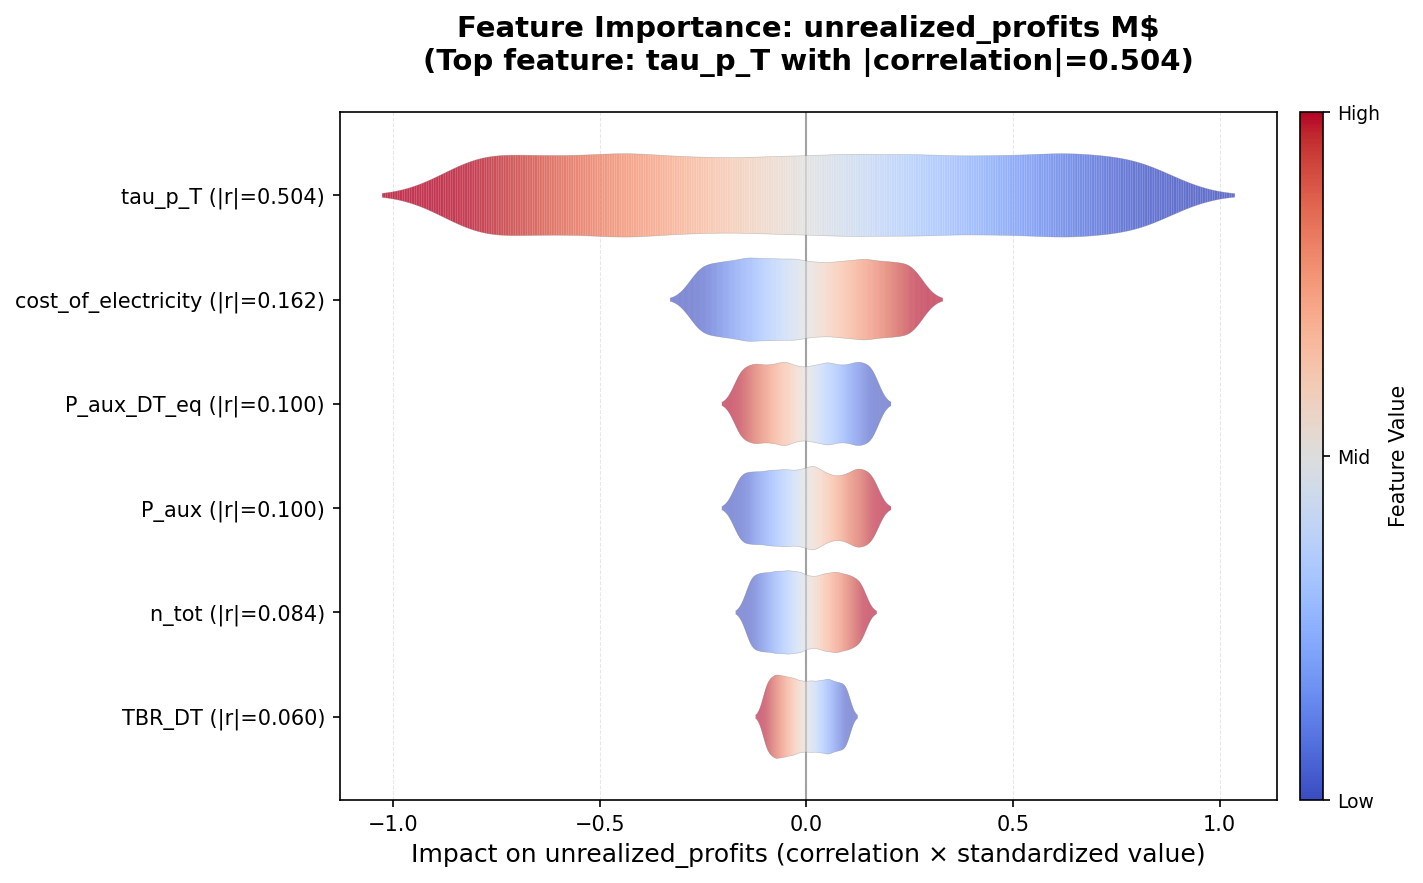
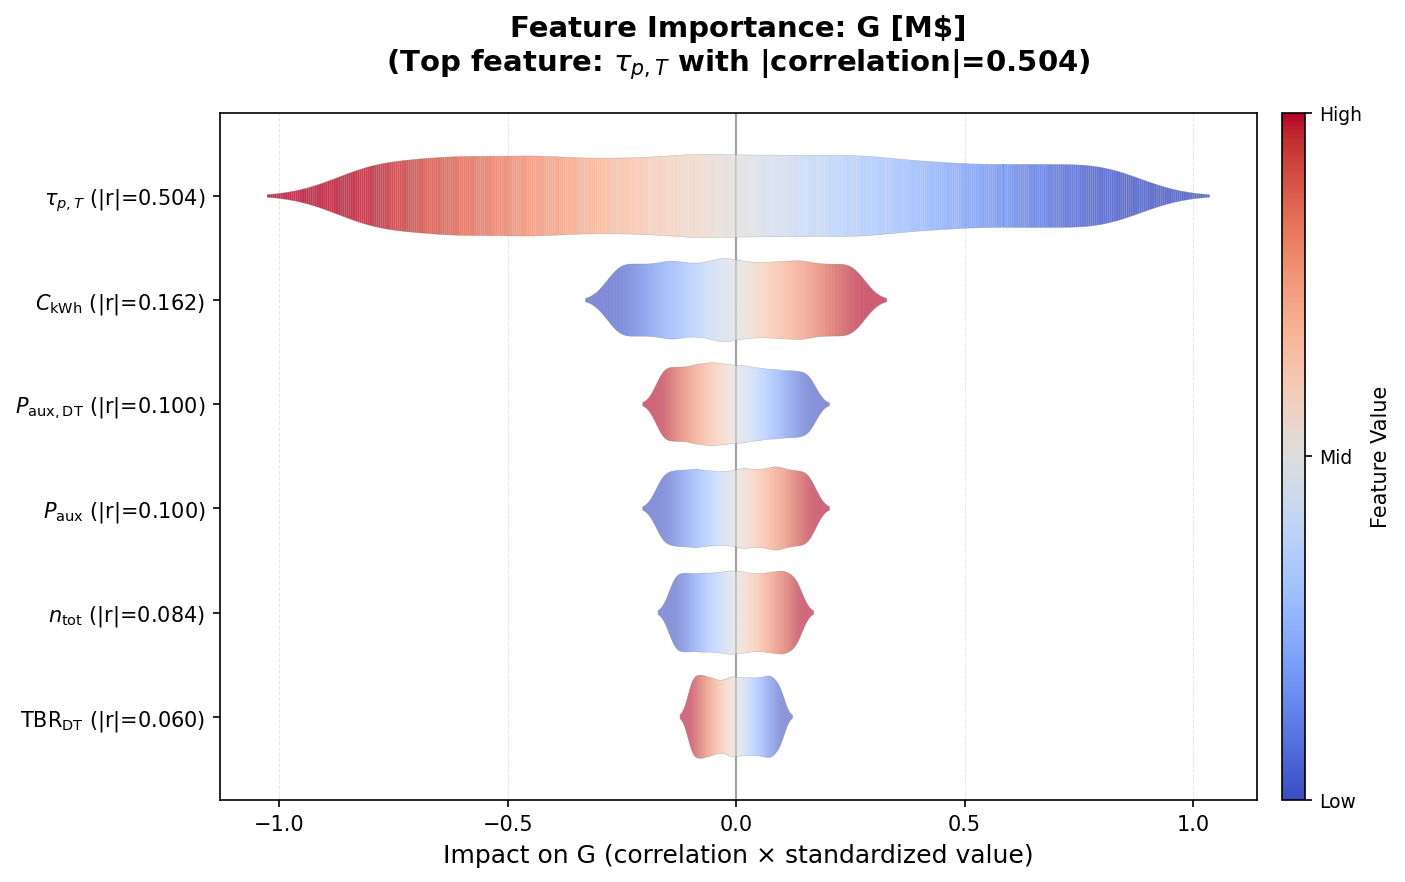
plotting updated

diff --git a/ddstartup/postprocessing/plot_kde_functions.py b/ddstartup/postprocessing/plot_kde_functions.py
@@ -71,11 +71,29 @@ def kde_quartile_plot(df_filtered, target, input_parameters, target_unit, output
         print(f"   No input parameters found for target '{target}'. Skipping KDE plot.")
         return
     
-    # Set up subplot grid
+    # Set up subplot grid with extra row for title and extra row for legend
     ncols = min(3, n_inputs)
     nrows = int(np.ceil(n_inputs / ncols))
-    fig, axes = plt.subplots(nrows=nrows, ncols=ncols, figsize=(4*ncols, 3*nrows), sharey=False)
-    axes = axes.flatten() if n_inputs > 1 else [axes]
+    
+    # Add 2 extra rows: one for title at top, one for legend at bottom
+    # Use gridspec to control row heights
+    from matplotlib import gridspec
+    
+    # Define height ratios: first row (title) = 0.07 (minimal for fontsize 14), 
+    # data rows = 1 each, last row (legend) = 0.45 (more space for legend)
+    height_ratios = [0.07] + [1] * nrows + [0.45]
+
+    fig = plt.figure(figsize=(4*ncols, 3*nrows + 2))
+    gs = gridspec.GridSpec(nrows=nrows+2, ncols=ncols, figure=fig, 
+                          height_ratios=height_ratios,
+                          hspace=0.4, wspace=0.3)
+    
+    # Create axes for data plots (skip first and last rows)
+    axes = []
+    for row in range(1, nrows + 1):
+        for col in range(ncols):
+            ax = fig.add_subplot(gs[row, col])
+            axes.append(ax)
     
     # Quartile binning
     bin_edges = df_filtered[target].quantile([0, 0.25, 0.5, 0.75, 1.0]).values
@@ -115,30 +133,24 @@ def kde_quartile_plot(df_filtered, target, input_parameters, target_unit, output
         ax.set_ylabel("Density")
         ax.tick_params(labelsize=8)
     
-    # Hide unused subplots
+    # Hide unused subplots in data rows
     for j in range(n_inputs, len(axes)):
         axes[j].set_visible(False)
     
-    # Add legend with symbol
+    # Add title in the reserved top row space
+    target_symbol = get_param_symbol(target)
+    fig.suptitle(f"KDE of Inputs by {target_symbol} quartile for {file_type}", fontsize=14, y=0.97)
+    
+    # Add legend in the reserved bottom row space
     handles, labels = axes[0].get_legend_handles_labels()
     target_label = get_param_label(target, target_unit)
     legend_title = f"{target_label} quartile"
     fig.legend(handles, labels,
                title=legend_title,
-               loc='lower right',
+               loc='lower center',
+               bbox_to_anchor=(0.5, 0.03),
+               ncol=2,
                fontsize=12, title_fontsize=14)
-    
-    # Adjust layout
-    target_symbol = get_param_symbol(target)
-    fig.suptitle(f"KDE of Inputs by {target_symbol} quartile for {file_type}", fontsize=14)
-    plt.subplots_adjust(
-        left=0.05,
-        right=0.85,
-        top=0.88,
-        bottom=0.05,
-        wspace=0.3,
-        hspace=0.4
-    )
     
     plt.savefig(outputs_dir / plot_name, dpi=150)
     plt.close(fig)

diff --git a/ddstartup/postprocessing/plot_importance_matrix.py b/ddstartup/postprocessing/plot_importance_matrix.py
@@ -62,8 +62,13 @@ def plot_effect_size_matrix(df, target, inputs, outputs_dir, plot_name=None, sav
         csv_name = outputs_dir / (plot_name + '_effects.csv' if plot_name else f'{target}_effects.csv')
         effects.to_csv(csv_name)
 
+    # Replace input parameter names with symbols for heatmap y-axis
+    from ddstartup.utils.parameter_symbols import get_param_symbol
+    effects_display = effects.copy()
+    effects_display.index = [get_param_symbol(inp) for inp in effects.index]
+
     plt.figure(figsize=(max(6, len(inputs)*0.4), 6))
-    sns.heatmap(effects.astype(float), cmap='vlag', center=0, annot=True, fmt='.2f')
+    sns.heatmap(effects_display.astype(float), cmap='vlag', center=0, annot=True, fmt='.2f')
     target_symbol = get_param_symbol(target)
     plt.title(f"Effect Size (Cohen's d) per Quartile — {target_symbol}")
     plt.tight_layout()

diff --git a/ddstartup/utils/parameter_symbols.py b/ddstartup/utils/parameter_symbols.py
@@ -51,8 +51,8 @@ PARAM_SYMBOLS = {
     # Time and energy
     't_startup': r'$t_{\mathrm{startup}}$',
     'E_lost': r'$E_{\mathrm{lost}}$',
-    'unrealized_profits': r'$G$',
-    'unrealized_gains': r'$G$',
+    'unrealized_profits': 'G',
+    'unrealized_gains': 'G',
     
     # Tritium burn-up efficiency
     'TBE': r'$\mathrm{TBE}$',
